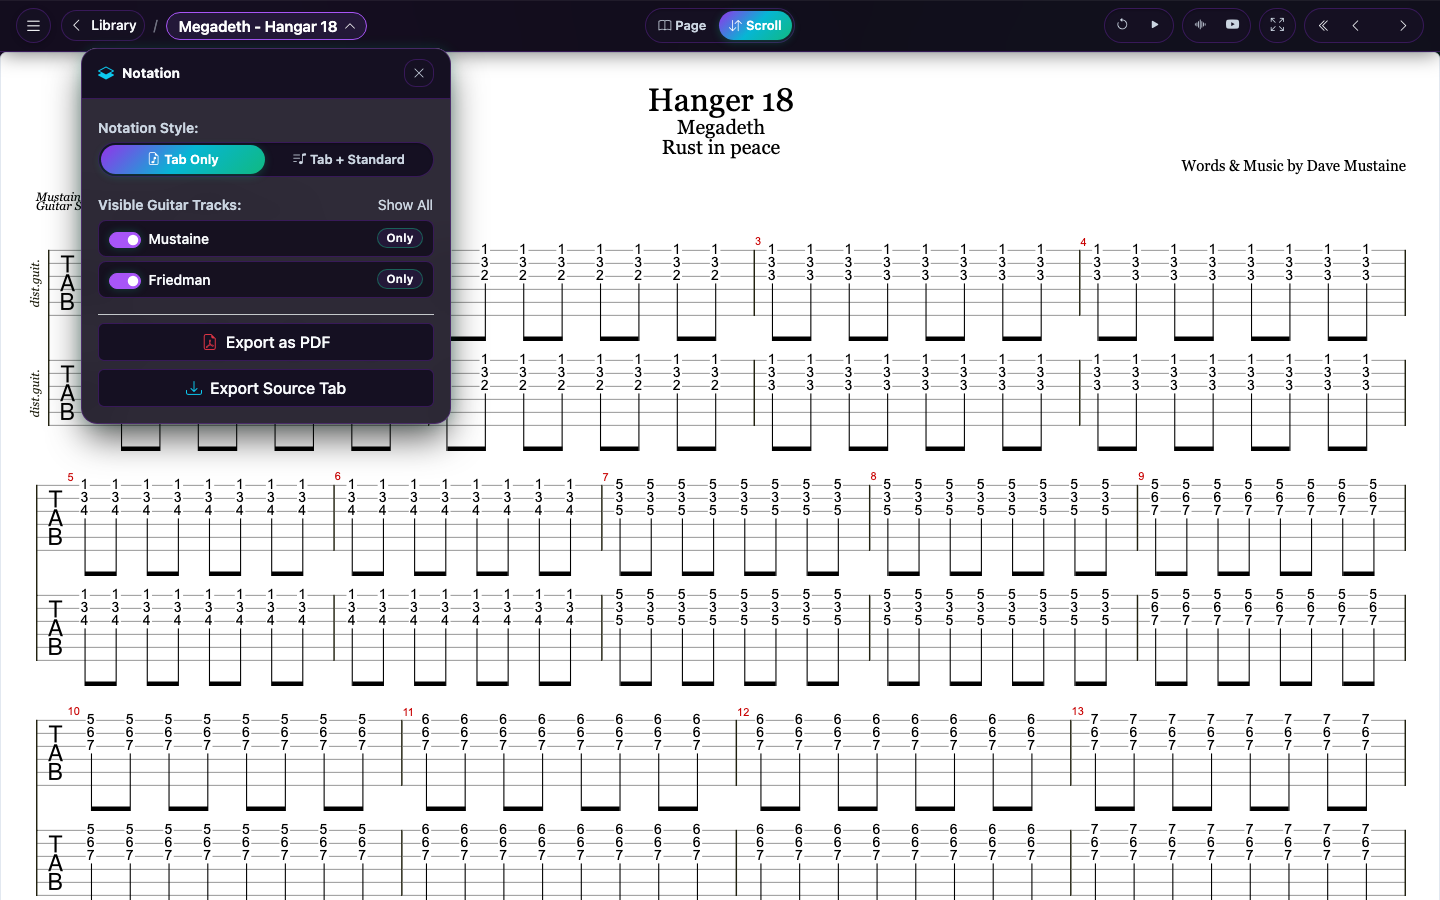
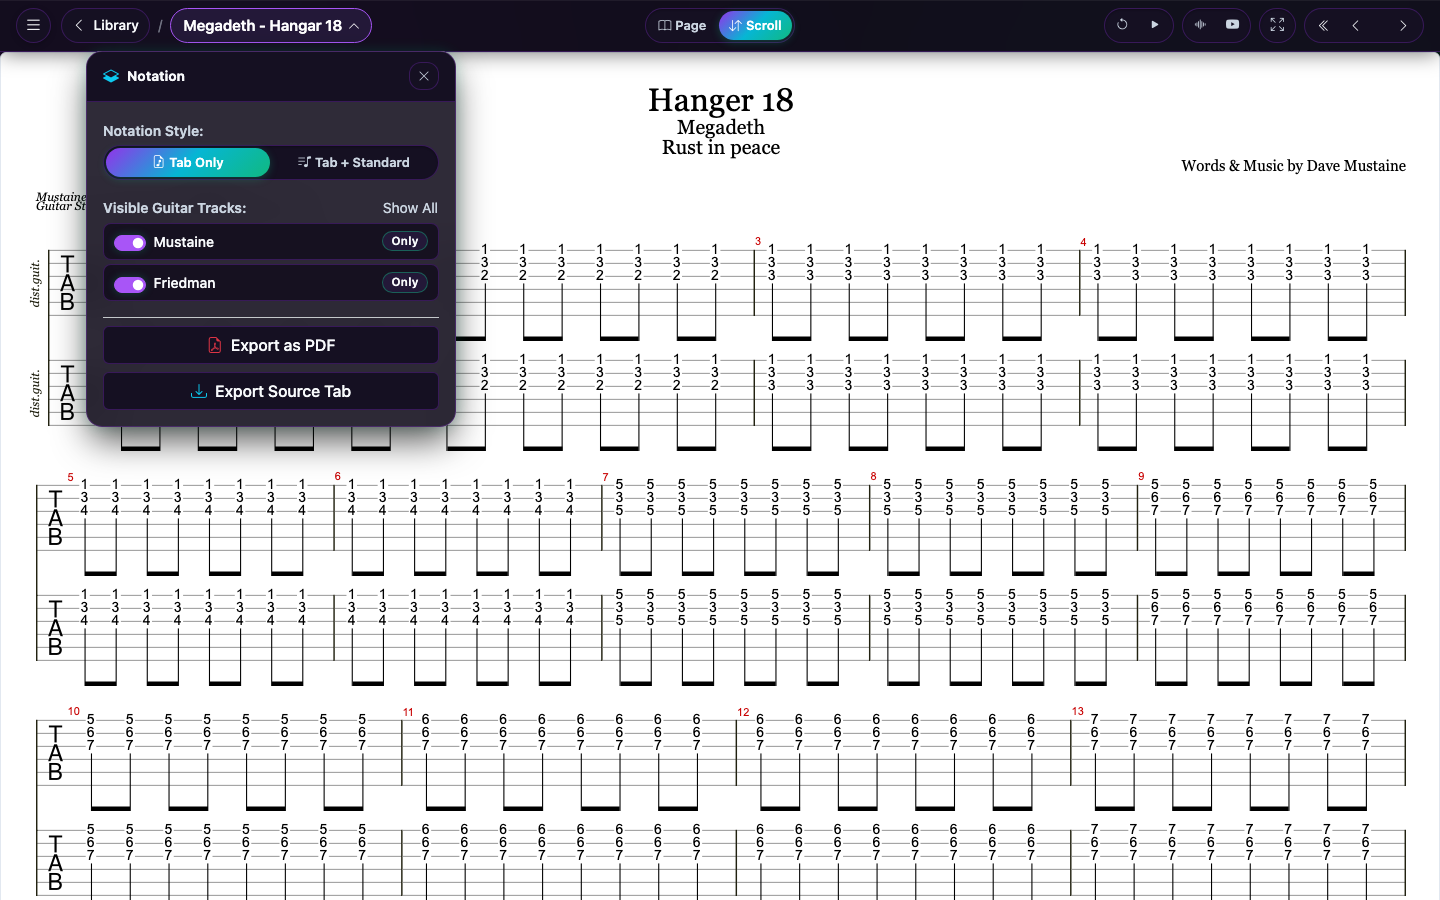
Standardize top bar pill heights across views

Changed region(s): [[0.0312, 0.0, 0.3438, 0.4978]]

diff --git a/app/style.css b/app/style.css
@@ -489,10 +489,23 @@ body {
 }
 
 .breadcrumb-back-btn {
+  height: 35px;
+  box-sizing: border-box;
   border-radius: 9999px;
+  padding: 0 0.65rem;
   font-weight: 500;
   white-space: nowrap;
   gap: 0.25rem;
+  display: inline-flex;
+  align-items: center;
+  justify-content: center;
+}
+
+#libraryReturnToSongBtn {
+  height: 35px;
+  box-sizing: border-box;
+  border-radius: 9999px;
+  padding: 0 0.75rem;
 }
 
 .breadcrumb-divider {
@@ -506,7 +519,9 @@ body {
   background: var(--bg-card-solid);
   border: 1px solid var(--border-subtle);
   border-radius: 9999px;
-  padding: 0.25rem 0.65rem 0.25rem 0.75rem;
+  height: 35px;
+  box-sizing: border-box;
+  padding: 0 0.65rem 0 0.75rem;
   color: #ffffff;
   display: inline-flex;
   align-items: center;
@@ -614,6 +629,8 @@ body {
   border-radius: 9999px;
   padding: 2px;
   gap: 2px;
+  height: 35px;
+  box-sizing: border-box;
   box-shadow: inset 0 1px 2px rgba(0,0,0,0.3);
 }
 
@@ -621,7 +638,9 @@ body {
 .hud-pill-group .btn-check + .btn {
   border-radius: 9999px !important;
   border: none !important;
-  padding: 0.3rem 0.65rem;
+  height: 100%;
+  box-sizing: border-box;
+  padding: 0 0.65rem;
   font-size: 0.8rem;
   font-weight: 600;
   color: var(--text-muted) !important;
@@ -685,6 +704,8 @@ body {
   border: 1px solid var(--border-subtle);
   border-radius: 9999px;
   padding: 2px;
+  height: 35px;
+  box-sizing: border-box;
   box-shadow: inset 0 1px 2px rgba(0,0,0,0.3);
 }
 
@@ -697,7 +718,9 @@ body {
   background: transparent;
   color: var(--text-muted);
   border-radius: 9999px;
-  padding: 0.3rem 0.55rem;
+  height: 100%;
+  box-sizing: border-box;
+  padding: 0 0.55rem;
   font-size: 0.82rem;
   display: inline-flex;
   align-items: center;
@@ -784,6 +807,7 @@ body {
   border: 1px solid var(--border-subtle);
   border-radius: 9999px;
   padding: 2px 6px;
+  height: 35px;
   min-height: 35px;
   box-sizing: border-box;
 }
@@ -793,8 +817,13 @@ body {
   background: transparent;
   color: var(--text-primary);
   border-radius: 9999px;
-  padding: 0.25rem 0.45rem;
+  height: 100%;
+  box-sizing: border-box;
+  padding: 0 0.45rem;
   font-size: 0.8rem;
+  display: inline-flex;
+  align-items: center;
+  justify-content: center;
 }
 
 #navButtons .btn:hover:not(:disabled) {
@@ -2416,6 +2445,14 @@ body:not(.synth-playback-started) .at-highlight {
   .hud-pill-group {
     padding: 1px;
     gap: 1px;
+    height: 30px;
+  }
+
+  #globalAudioControls,
+  #audioSourcePill,
+  #synthMiniPill,
+  #ytMiniPill {
+    height: 30px;
   }
 
   .menu-toggle-btn {
@@ -2428,10 +2465,22 @@ body:not(.synth-playback-started) .at-highlight {
     font-size: 1rem;
   }
 
+  .hud-pill-group .btn,
   .hud-pill-group .btn-check + .btn,
   #globalAudioControls .btn,
   #audioSourcePill .btn,
-  #fullscreenPill .btn,
+  #fullscreenPill .btn {
+    padding: 0 0.4rem;
+    font-size: 0.78rem;
+  }
+
+  .breadcrumb-back-btn,
+  .top-bar-song-btn,
+  #libraryReturnToSongBtn {
+    height: 30px;
+    padding: 0 0.5rem;
+  }
+
   .brand-btn {
     padding: 0.25rem 0.4rem;
     font-size: 0.78rem;
@@ -2440,11 +2489,12 @@ body:not(.synth-playback-started) .at-highlight {
   #navButtons {
     padding: 1px 4px;
     gap: 0.15rem;
+    height: 30px;
     min-height: 30px;
   }
 
   #navButtons .btn {
-    padding: 0.2rem 0.35rem;
+    padding: 0 0.35rem;
     font-size: 0.75rem;
   }
 

diff --git a/app/index.html b/app/index.html
@@ -38,7 +38,7 @@
     </span>
 
     <!-- Return to Song Button (in Library View when a song is open) -->
-    <button type="button" class="btn btn-sm btn-theme-outline align-items-center gap-2 py-1 px-3" id="libraryReturnToSongBtn" title="Return to active score" style="border-radius: 9999px; display: none;">
+    <button type="button" class="btn btn-sm btn-theme-outline align-items-center gap-2" id="libraryReturnToSongBtn" title="Return to active score" style="display: none;">
       <i class="bi-music-note-beamed text-info"></i>
       <span class="d-none d-sm-inline text-truncate" id="libraryReturnSongName" style="max-width:140px;"></span>
       <i class="bi-arrow-up-right small text-white-50"></i>
@@ -46,7 +46,7 @@
 
     <!-- Song Mode Document Breadcrumb -->
     <div id="songBreadcrumb" class="align-items-center gap-2" style="display:none;" data-tauri-drag-region>
-      <button class="brand-btn breadcrumb-back-btn py-1 px-2" id="topBarBackToLibraryBtn" type="button" title="Back to Tab Library">
+      <button class="brand-btn breadcrumb-back-btn" id="topBarBackToLibraryBtn" type="button" title="Back to Tab Library">
         <i class="bi-chevron-left me-1"></i><span>Library</span>
       </button>
       <span class="breadcrumb-divider text-muted opacity-50" data-tauri-drag-region>/</span>
